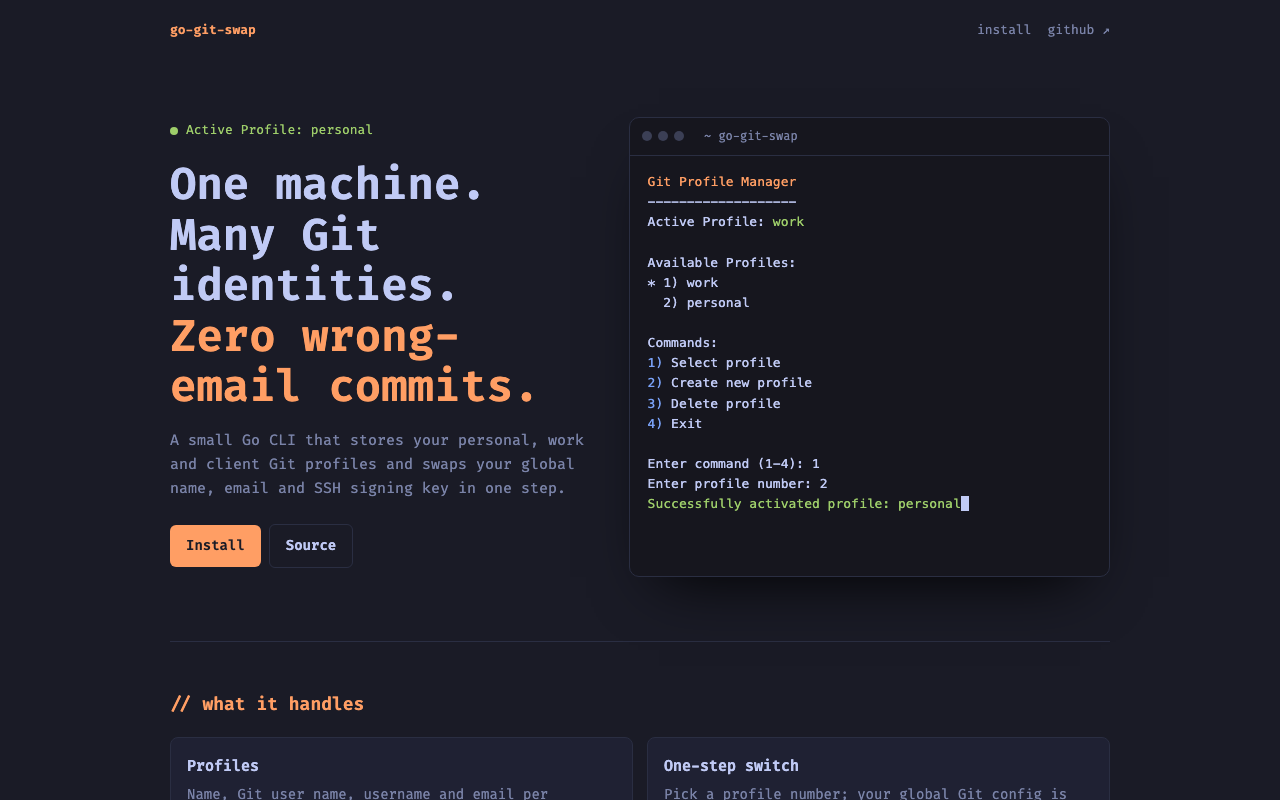
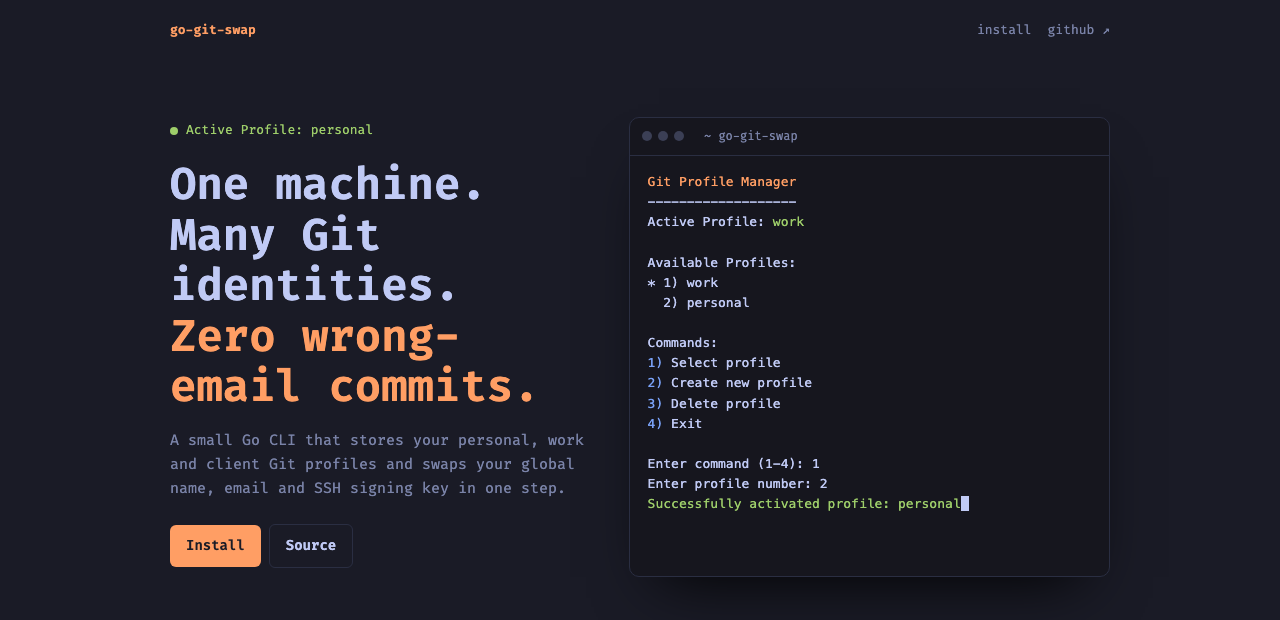
README: tighter hero crop, features table header

diff --git a/README.md b/README.md
@@ -26,7 +26,7 @@ You commit to work repos, personal projects and client code from the same laptop
 
 ## Features
 
-|  |  |
+| Feature | What it does |
 | --- | --- |
 | **Profiles** | Name, Git user name, username and email per identity, stored in `~/.go-git-swap.json` (`0600`). |
 | **One-step switch** | Pick a profile number and your global Git config is rewritten for you. |
